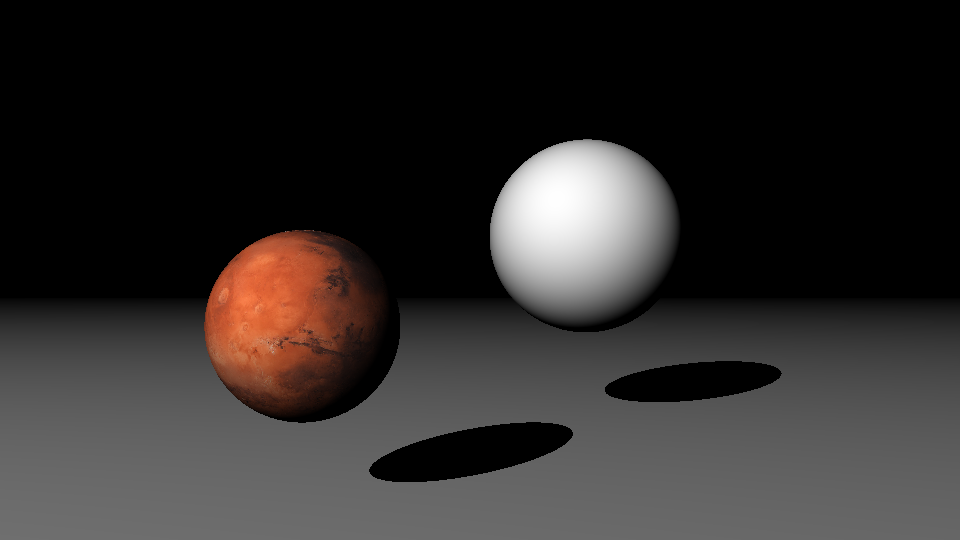
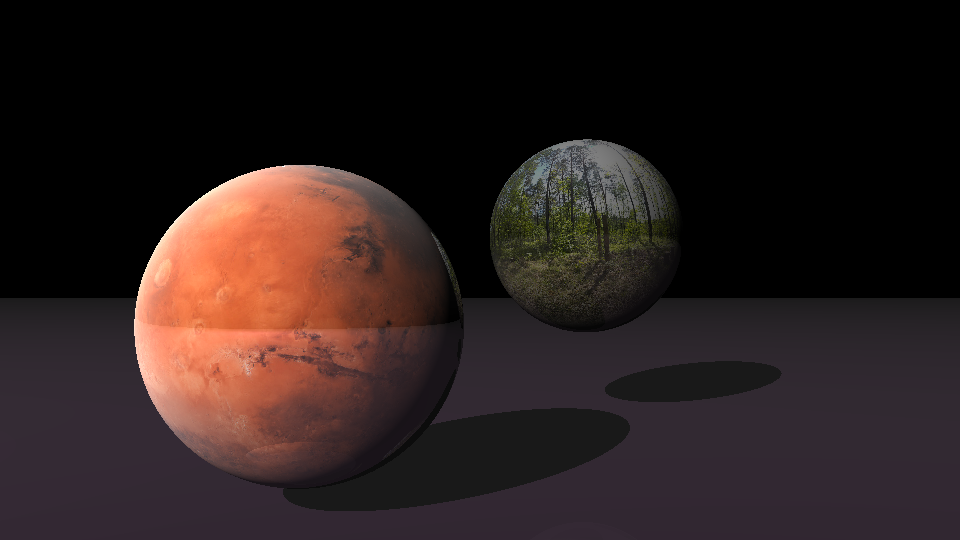
refactor: clean

diff --git a/ray_tracer/infrastructure.py b/ray_tracer/infrastructure.py
@@ -10,15 +10,15 @@ from ray_tracer.domain.models import (
     Camera,
     Diffuse,
     DomeLight,
+    Object3D,
     Scene3D,
     Shader,
-    Shape,
     Specular,
 )
 from ray_tracer.domain.vector import Vector3D, extract
 
 
-class NumpySphere(Shape):
+class Sphere3D(Object3D):
     def __init__(
         self,
         center: Vector3D,
@@ -130,20 +130,12 @@ class NumpyRenderer(Renderer):
         Image.merge("RGB", rgb_colors).save(output_path)
 
 
-def to_rgb(shader: Shader) -> Vector3D:
-    return Vector3D(
-        np.clip(shader.x, 0, 1),
-        np.clip(shader.y, 0, 1),
-        np.clip(shader.z, 0, 1),
-    )
-
-
 def shade(
-    shape_data: tuple[Shape, Shader],
+    shape_data: tuple[Object3D, Shader],
     scene: Scene3D,
     ray_origin: Vector3D,
     normalized_ray_direction: Vector3D,
-    distance_origin_to_intersection: float,
+    distance_origin_to_intersection: np.ndarray,
     ray_tracer: Renderer,
     physical: bool,
 ) -> Vector3D:
@@ -155,7 +147,7 @@ def shade(
     direction_to_ray_origin = (scene.camera.position - hit_point).norm()
     nudged_intersection_point = hit_point + normals * 0.0001  # to avoid itself
 
-    is_in_light = calculate_shadow(
+    is_in_light = is_lightened(
         nudged_intersection_point,
         direction_to_light,
         scene,
@@ -172,7 +164,7 @@ def shade(
         ray_tracer,
     )
 
-    # color += self._calculate_dome_light(normals, scene)
+    color += calculate_dome_light(normals, scene)
 
     if physical:
         specular = calculate_physical_specular(
@@ -189,18 +181,18 @@ def shade(
             direction_to_ray_origin,
         )
 
-    # color += (specular + reflection * 0.5) * self.specular_gain * is_in_light
+    color += (specular + reflection * 0.5) * shader.specular.intensity * is_in_light
 
-    # color += self._calculate_iridescence(normals, direction_to_ray_origin)
+    # color += calculate_iridescence(normals, direction_to_ray_origin)
 
     return color
 
 
-def calculate_shadow(
+def is_lightened(
     nudged_intersection_point: Vector3D,
     direction_to_light: Vector3D,
     scene: Scene3D,
-    shape_data: tuple[Shape, Shader],
+    shape_data: tuple[Object3D, Shader],
 ) -> bool:
     """Calculates whether the intersection point is in light or in shadow.
     It does this by checking if the intersection point is closer to the light source.
@@ -218,7 +210,7 @@ def calculate_diffuse(
     normals: Vector3D,
     direction_to_light: Vector3D,
     is_in_light: bool,
-    shape: Shape,
+    shape: Object3D,
 ) -> Vector3D:
     """Calculates the diffuse color of the shape at the intersection point."""
     diffuse_light_intensity = np.maximum(normals.dot(direction_to_light), 0)
@@ -364,6 +356,7 @@ def calculate_physical_specular(
     en l'absence de lumière, il ne s'ajoute pas même si l'angle de vue est glancing.
 
     Args:
+        specular (Specular): le matériau spéculaire.
         normals (Vector3D): la normale à la surface.
         direction_to_light (Vector3D): la direction (normalisée) vers la source de lumière.
         direction_to_ray_origin (Vector3D): la direction (normalisée) vers la caméra.
@@ -403,7 +396,7 @@ def calculate_physical_specular(
     D = (alpha**2) / (np.pi * (denom**2 + eps))
 
     # ---- Terme Géométrique G (Smith Schlick-GGX) ----
-    def G1(x: Vector3D) -> float:
+    def G1(x: Vector3D) -> np.ndarray:
         xdotN = np.clip(normals.dot(x), 0, 1)
         return 2 * xdotN / (xdotN + np.sqrt(alpha**2 + (1 - alpha**2) * (xdotN**2)) + eps)
 

diff --git a/ray_tracer/application.py b/ray_tracer/application.py
@@ -1,8 +1,7 @@
 from abc import ABC, abstractmethod
 from pathlib import Path
-from typing import Self
 
-from ray_tracer.domain.models import Camera, Scene3D, Shape, Vector3D
+from ray_tracer.domain.models import Camera, Scene3D, Vector3D
 
 
 class Renderer(ABC):
@@ -30,91 +29,6 @@ class Renderer(ABC):
         camera: Camera,
         output_path: Path,
     ) -> None:
-        pass
-
-
-class ShaderCalculator(ABC):
-    @abstractmethod
-    def to_rgb(self, shader: Self) -> Vector3D:
-        pass
-
-    @abstractmethod
-    def create(
-        self,
-        shape: Shape,
-        scene: Scene3D,
-        ray_origin: Vector3D,
-        normalized_ray_direction: Vector3D,
-        distance_origin_to_intersection: float,
-        ray_tracer: Renderer,
-    ) -> Vector3D:
-        """This is the main function that will be called to compute the color of the pixel."""
-        pass
-
-    @abstractmethod
-    def _calculate_shadow(
-        self,
-        nudged_intersection_point: Vector3D,
-        direction_to_light: Vector3D,
-        scene: Scene3D,
-        shape: Shape,
-    ) -> bool:
-        pass
-
-    @abstractmethod
-    def _calculate_diffuse(
-        self,
-        intersection_point: Vector3D,
-        normal: Vector3D,
-        direction_to_light: Vector3D,
-        is_in_light: bool,
-        shape: Shape,
-    ) -> Vector3D:
-        """Calculates the diffuse color of the shape at the intersection point."""
-        pass
-
-    @abstractmethod
-    def _calculate_reflection(  # TODO: VOIR TRANSMISSION
-        self,
-        nudged_intersection_point: Vector3D,
-        normal: Vector3D,
-        normalized_ray_direction: Vector3D,
-        scene: Scene3D,
-        ray_tracer: Renderer,
-    ) -> Vector3D:
-        pass
-
-    @abstractmethod
-    def _calculate_specular(
-        self,
-        normal: Vector3D,
-        direction_to_light: Vector3D,
-        direction_to_ray_origin: Vector3D,
-    ) -> Vector3D:
-        """Calculates the Phong specular reflection based on the angle between the normal and the direction
-        to the light source.
-        """
-        pass
-
-    @abstractmethod
-    def _calculate_iridescence(  # TODO: NE SE VOIT QUE DANS LE SPECULAIRE!
-        self,
-        normal: Vector3D,
-        direction_to_ray_origin: Vector3D,
-    ) -> Vector3D:
-        """Calculates an iridescence color based on thin-film interference,
-        incorporating three parameters:
-            - thin_film_weight: the weight (coverage) that blends the film effect with the base,
-            - thin_film_thickness: the thickness of the film, affecting the spacing of the fringes,
-            - thin_film_ior: the refractive index of the film, influencing the hue of the fringes.
-
-        The effect is achieved by modulating a sinusoidal oscillation (simulating interference)
-        based on the angle between the normal and the direction to the ray origin.
-        """
-        pass
-
-    @abstractmethod
-    def get_texture_color(self, texture, u: list, v: list) -> Vector3D:
         pass
 
 

diff --git a/ray_tracer/domain/vector.py b/ray_tracer/domain/vector.py
@@ -4,17 +4,17 @@ from typing import Any
 import numpy as np
 
 
-def extract(cond: np.ndarray, x: numbers.Number | int | float | np.ndarray) -> numbers.Number | np.ndarray:
+def extract(condition: bool, x: numbers.Number | int | float | np.ndarray) -> numbers.Number | np.ndarray:
     """Extracts elements from an array or returns the number itself if it is a scalar.
 
     Args:
-        cond (array-like): Condition array to extract elements.
+        condition (array-like): Condition array to extract elements.
         x: Input number or array.
     """
     if isinstance(x, numbers.Number):
         return x
     else:
-        return np.extract(cond, x)
+        return np.extract(condition, x)
 
 
 class Vector3D:
@@ -58,16 +58,17 @@ class Vector3D:
         mag = np.sqrt(self.dot(self))
         return self * (1.0 / np.where(mag == 0, 1, mag))
 
-    def extract(self, cond: np.ndarray) -> "Vector3D | Vector3D":
+    def extract(self, condition: bool) -> "Vector3D | Vector3D":
         """Extracts components of the vector based on a condition."""
-        if isinstance(cond, numbers.Number):
+        if isinstance(condition, numbers.Number):
             return self
 
-        return Vector3D(extract(cond, self.x), extract(cond, self.y), extract(cond, self.z))
+        return Vector3D(extract(condition, self.x), extract(condition, self.y), extract(condition, self.z))  # noqa
 
-    def place(self, cond: np.ndarray) -> "Vector3D":
+    def place(self, condition: np.ndarray) -> "Vector3D":
         """Places the vector's components into a new vector."""
-        r = Vector3D(np.zeros(cond.shape), np.zeros(cond.shape), np.zeros(cond.shape))
+        r = Vector3D(np.zeros(condition.shape), np.zeros(condition.shape), np.zeros(condition.shape))
+
         if not isinstance(r.x, np.ndarray):
             raise TypeError("r.x is not a numpy array")
         if not isinstance(r.y, np.ndarray):
@@ -75,7 +76,7 @@ class Vector3D:
         if not isinstance(r.z, np.ndarray):
             raise TypeError("r.z is not a numpy array")
 
-        np.place(r.x, cond, self.x)
-        np.place(r.y, cond, self.y)
-        np.place(r.z, cond, self.z)
+        np.place(r.x, condition, self.x)
+        np.place(r.y, condition, self.y)
+        np.place(r.z, condition, self.z)
         return r

diff --git a/main.py b/main.py
@@ -12,42 +12,37 @@ from ray_tracer.domain.models import (
     Specular,
 )
 from ray_tracer.domain.vector import Vector3D
-from ray_tracer.infrastructure import NumpyRenderer, NumpySphere
+from ray_tracer.infrastructure import NumpyRenderer, Sphere3D
 
 if __name__ == "__main__":
-    renderer = NumpyRenderer()
-
     scene = Scene3D(
         [
             (
-                NumpySphere(Vector3D(0.55, 0.5, 3), 0.5),
+                Sphere3D(Vector3D(0.55, 0.5, 3), 0.5),
                 Shader(
-                    Diffuse(Vector3D(1, 1, 1), 1.0),
+                    Diffuse(Path("sourceimages/hdri_2.jpg"), 0.5),
                     Specular(Vector3D(0, 1, 1), 0.5, 0.5, 1.5),
                 ),
             ),
             (
-                NumpySphere(Vector3D(-0.55, 0.1, 1), 0.3),
-                Shader(Diffuse(Path("sourceimages/2k_mars.jpg"), 1.0), Specular(Vector3D(1, 1, 1), 1.0, 0.5, 1.5)),
+                Sphere3D(Vector3D(-0.55, 0.1, 1), 0.5),
+                Shader(Diffuse(Path("sourceimages/2k_mars.jpg"), 1.0), Specular(Vector3D(1, 1, 1), 1.0, 0.9, 1.5)),
             ),
             (
-                NumpySphere(Vector3D(0, -99999.5, 0), 99999),
+                Sphere3D(Vector3D(0, -99999.5, 0), 99999),
                 Shader(
-                    Diffuse(Vector3D(1, 1, 1), 1.0),
+                    Diffuse(Vector3D(1, 0, 1), 0.1),
                     Specular(Vector3D(0, 1, 1), 0.5, 0.5, 1.5),
                 ),
             ),
         ],
         [  # TODO: use multiple lights
             PointLight(1.0, Vector3D(-5, 5, -10)),
-            # PointLight(Vector3D(-2, 1, 2)),
             DomeLight(0.1, Vector3D(0.0, 0.0, 0.0), Vector3D(1, 1, 1)),
         ],
         Camera(Vector3D(0, 0.2, -2), int(1920 / 2), int(1080 / 2)),
     )
 
-    output_path = Path("render.png")
-
     start_time = time.time()
-    render_image_pipeline(scene, output_path, renderer)
+    render_image_pipeline(scene, Path("render.png"), NumpyRenderer())
     print("Took", time.time() - start_time)  # noqa: T201

diff --git a/ray_tracer/domain/models.py b/ray_tracer/domain/models.py
@@ -7,7 +7,7 @@ FARAWAY = 1.0e39
 
 
 @dataclass
-class Shape:
+class Object3D:
     def intersect(self, ray_origin: Vector3D, normalized_ray_direction: Vector3D) -> None:
         raise NotImplementedError
 
@@ -80,6 +80,6 @@ class Shader:
 class Scene3D:
     """The 3D scene groups together all the 3D elements that will interact with each other."""
 
-    shapes: list[tuple[Shape, Shader]]
+    shapes: list[tuple[Object3D, Shader]]
     lights: list[PointLight | DomeLight]
     camera: Camera

diff --git a/README.md b/README.md
@@ -43,7 +43,7 @@ from ray_tracer.infrastructure import (
     CheckeredSphere,
     NumpyRenderer,
     NumpyRGBColor,
-    NumpySphere,
+    Sphere3D,
     Vector3D,
 )
 
@@ -51,7 +51,7 @@ renderer = NumpyRenderer()
 
 scene = Scene3D(
     [
-        NumpySphere(
+        Sphere3D(
             Vector3D(0.55, 0.5, 3),
             0.5,
             NumpyPhysicalShader(
@@ -63,7 +63,7 @@ scene = Scene3D(
                 0,
             ),
         ),
-        NumpySphere(
+        Sphere3D(
             Vector3D(-0.55, 0.1, 1),
             1,
             NumpyPhysicalShader(
@@ -75,7 +75,7 @@ scene = Scene3D(
                 0.0,
             ),
         ),
-        NumpySphere(
+        Sphere3D(
             Vector3D(0, -99999.5, 0),
             99999,
             NumpyPhysicalShader(
